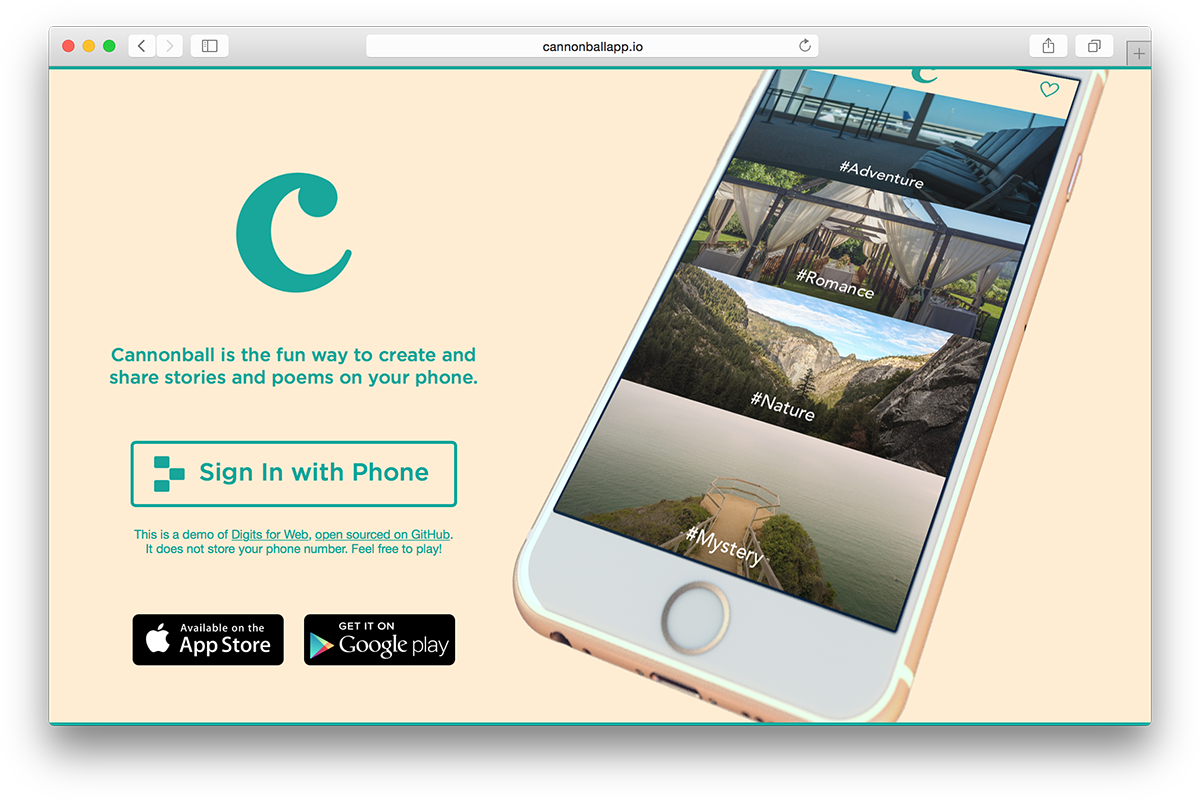
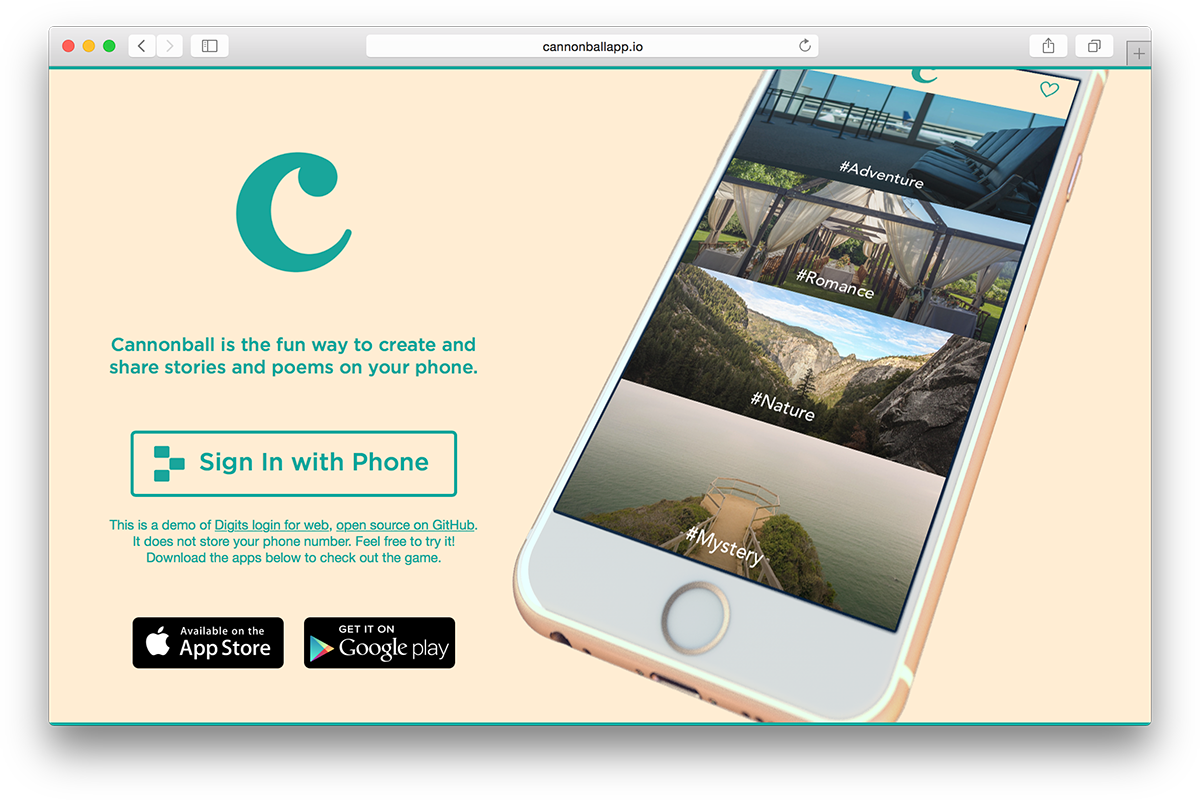
Minor improvements to the web page, stylesheet and README

diff --git a/public/stylesheets/cannonball.css b/public/stylesheets/cannonball.css
@@ -37,11 +37,11 @@ main {
 }
 
 header {
-  padding-top: 50px;
+  padding-top: 30px;
 }
 
 h1 {
-  margin: 10px 0;
+  margin: 10px 0 20px;
   font-size: 24px;
 }
 
@@ -60,7 +60,7 @@ h2 {
   margin: 10px 10px 20px;
   font-family: "Gotham-Medium", "Helvetica Neue", Helvetica, sans-serif;
   font-size: 18px;
-  font-weight: normal;
+  font-weight: 500;
 }
 
 .container {
@@ -71,15 +71,12 @@ h2 {
   width: 40%;
 }
 
-.digits {
-  height: 200px;
-}
-
 .digits-button {
   width: 320px;
   margin: 30px auto 0;
   font-family: "Gotham-Medium", "Helvetica Neue", Helvetica, sans-serif;
   font-size: 24px;
+  font-weight: 500;
   background: transparent;
   color: #00a69b;
   padding: 15px 20px 15px 60px;
@@ -88,6 +85,11 @@ h2 {
   cursor: pointer;
   background: url(/images/digits-icon.png) 20px center no-repeat;
   background-size: 30px 35px;
+  transition: box-shadow 0.3s;
+}
+
+.digits-button:not(:disabled):hover {
+  box-shadow: 0 0 5px #00a69b;
 }
 
 .digits-button:focus,
@@ -102,10 +104,12 @@ h2 {
 
 .digits-note {
   margin-top: 20px;
-  font-size: 12px;
+  font-size: 13px;
+  line-height: 16px;
 }
 
 .stores {
+  margin-top: 45px;
   font-size: 0;
 }
 
@@ -183,7 +187,34 @@ footer p {
   padding: 0;
 }
 
+footer p a {
+  color: #ffedd3;
+}
+
 /* Animations */
+
+@-webkit-keyframes bounce {
+  0%, 60%, 75%, 90%, 100% {
+    -webkit-animation-timing-function: cubic-bezier(0.215, 0.610, 0.355, 1.000);
+  }
+  0% {
+    opacity: 0;
+    -webkit-transform: translate3d(0, -3000px, 0);
+  }
+  60% {
+    opacity: 1;
+    -webkit-transform: translate3d(0, 25px, 0);
+  }
+  75% {
+    -webkit-transform: translate3d(0, -10px, 0);
+  }
+  90% {
+    -webkit-transform: translate3d(0, 5px, 0);
+  }
+  100% {
+    -webkit-transform: none;
+  }
+}
 
 @keyframes bounce {
   0%, 60%, 75%, 90%, 100% {
@@ -209,6 +240,9 @@ footer p {
 }
 
 .bounce {
+  -webkit-animation-duration: 1s;
+  -webkit-animation-fill-mode: both;
+  -webkit-animation-name: bounce;
   animation-duration: 1s;
   animation-fill-mode: both;
   animation-name: bounce;

diff --git a/README.md b/README.md
@@ -1,26 +1,26 @@
 # Cannonball for Web
 
-This repository contains the source code for the simple website presenting [Cannonball](http://cannonballapp.io/) and featuring an end-to-end [Digits](https://get.fabric.io/) Web Demo built in JavaScript and Node.
+This repository contains the source code for the simple website presenting [Cannonball](http://cannonballapp.io/) and featuring an end-to-end [Digits](https://get.fabric.io/) login web demo built in JavaScript and Node.
 
 ![Screenshot of Cannonball for Web](screenshot.png "Screenshot of Cannonball for Web")
 
 ## About Cannonball
 
-Cannonball is a canonical sample iOS and Android app to demonstrate how to use [Fabric](https://get.fabric.io/), the easiest way to build the best apps.
+Cannonball is a canonical sample iOS and Android app to demonstrate how to use [Fabric](https://get.fabric.io/), the tools you need to build the best apps.
 
-Cannonball uses many of the features available in Fabric, including [Crashlytics](https://fabric.io/kits/crashlytics), [Answers](https://answers.io/), Sign In with Phone Number via [Digits](https://fabric.io/kits/digits), Embedded Timelines with the [Twitter Kit](https://fabric.io/kits/twitterkit) as well as the Tweet Composer to share on Twitter, and finally Native Ads from [MoPub](https://fabric.io/kits/mopub).
+Cannonball uses many of the features available in Fabric, including [Crashlytics](https://fabric.io/kits/crashlytics), [Answers](https://answers.io/), Sign In with Phone Number via [Digits](https://fabric.io/kits/digits), embedded Tweet timelines with the [Twitter Kit](https://fabric.io/kits/twitterkit) as well as the Tweet Composer to share on Twitter, and finally Native Ads from [MoPub](https://fabric.io/kits/mopub).
 
 Cannonball is open source, so feel free to take a look at the code of [Cannonball for iOS](https://github.com/twitterdev/cannonball-ios) and [Cannonball for Android](https://github.com/twitterdev/cannonball-android) on GitHub.
 
 ## Digits Highlights
 
-If you’re looking for an example of how to use Digits in your Web application, there are two files in this project that are particularly interesting:
+If you’re looking for an example of how to use Digits in your web application, there are two files in this project that are particularly interesting:
 
 * On the client, [`public/javascripts/cannonball.js`](https://github.com/twitterdev/cannonball-web/blob/master/public/javascripts/cannonball.js) contains our implementation of the Digits JavaScript SDK for the Cannonball page. It initializes the Digits SDK in the browser with the consumer key, triggers the Digits login flow when the user starts to interact with the “Sign In with Phone” button, performs a request to the backend passing the right OAuth Echo headers and eventually displays the phone number.
 
-* On the server, [`routes/index.js`](https://github.com/twitterdev/cannonball-web/blob/master/routes/index.js) is responsible for verifying the authentication and interacting with the Digits API. When the login is successful, the Digits API will return the user information, and this route file returns a JSON object back to the frontend to display the verified phone number.
+* On the server, [`routes/index.js`](https://github.com/twitterdev/cannonball-web/blob/master/routes/index.js) is responsible for verifying the authentication and interacting with the Digits API. When the login is successful, the Digits API will return the user information, and this route file returns a JSON object back to the web page to display the verified phone number.
 
-Note: In this Cannonball Web demo, we simply display on the page the phone number returned over JSON, but for your application, you would typically store the Digits user ID and verified phone number in your database to enrich your user profile.
+Note: In this demo, we simply display on the page the phone number returned over JSON — but for your application, you would most likely store the Digits user ID and verified phone number in your database, either for the core user identity or to enrich an existing profile.
 
 ## Setup
 
